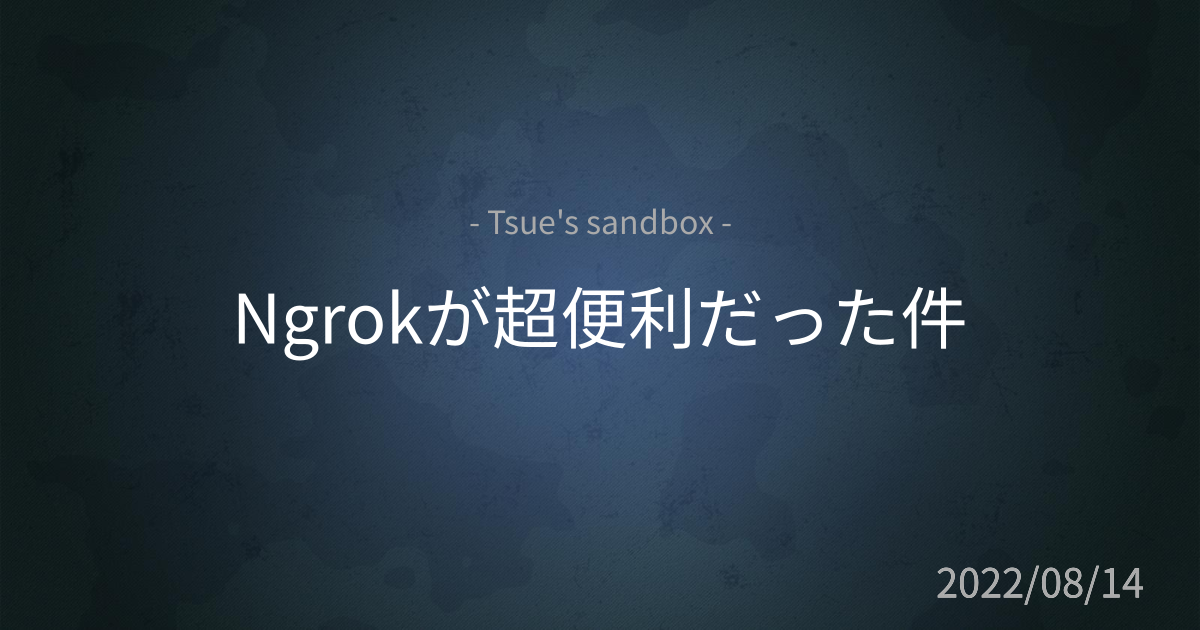
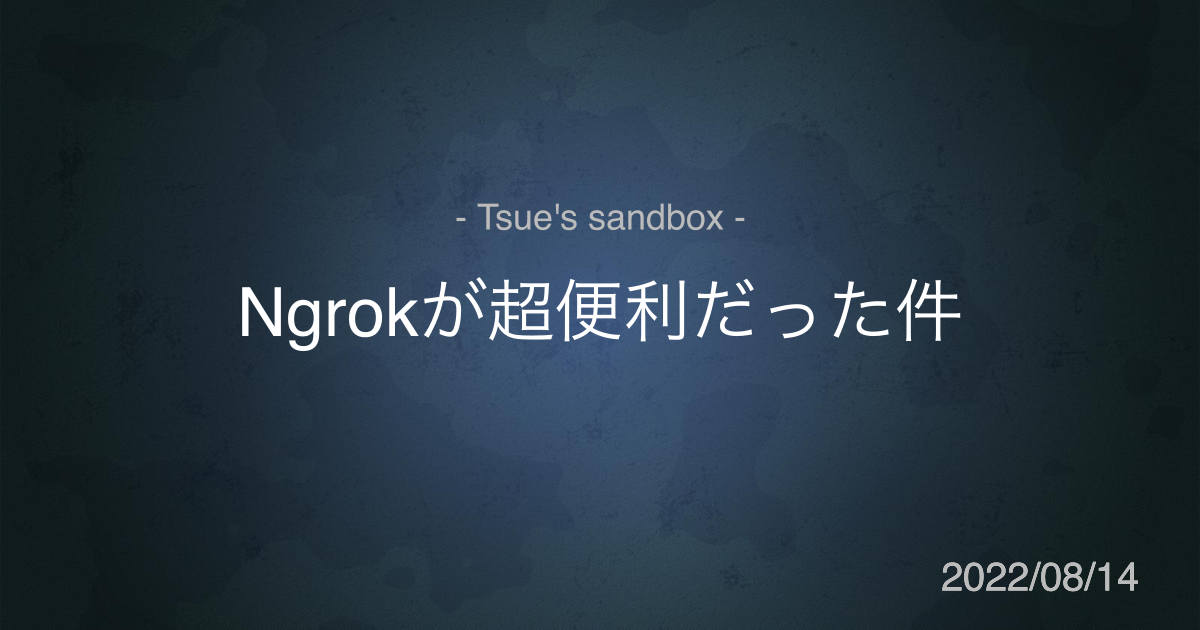
rss

Changed region(s): [[0.185, 0.4524, 0.8017, 0.573], [0.7708, 0.8746, 0.9558, 0.9651], [0.4008, 0.3016, 0.6167, 0.3921]]

diff --git a/src/lib/feed.ts b/src/lib/feed.ts
@@ -1,0 +1,68 @@
+import fs from 'fs';
+
+import { Feed } from 'feed';
+import matter from 'gray-matter';
+
+import { FrontMatterType } from 'src/type-def/postsType';
+
+function generatedRssFeed(): void {
+  const baseUrl = process.env.NEXT_PUBLIC_BASE_URL || '';
+  const date = new Date();
+  // author の情報を書き換える
+  const author = {
+    name: 'Tsue',
+    email: 'akihide.tsue@gmail.com',
+    link: 'https://tsue-sandbox.vercel.app/',
+  };
+
+  // デフォルトになる feed の情報
+  const feed = new Feed({
+    title: process.env.NEXT_PUBLIC_BASE_NAME || '',
+    description: process.env.NEXT_PUBLIC_BASE_DISC,
+    id: baseUrl,
+    link: baseUrl,
+    language: 'ja',
+    image: `${baseUrl}/favicon.png`, // image には OGP 画像でなくファビコンを指定
+    copyright: `All rights reserved ${date.getFullYear()}, ${author.name}`,
+    updated: date,
+    feedLinks: {
+      rss2: `${baseUrl}/rss/feed.xml`,
+      json: `${baseUrl}/rss/feed.json`,
+      atom: `${baseUrl}/rss/atom.xml`,
+    },
+    author: author,
+  });
+
+  const files = fs.readdirSync('src/posts');
+  const posts = files.map((fileName) => {
+    const slug = fileName.replace(/\.md$/, '');
+    const fileContent = fs.readFileSync(`src/posts/${fileName}`, 'utf-8');
+    const { data, content } = matter(fileContent);
+    return {
+      frontMatter: data as FrontMatterType,
+      slug,
+      content,
+    };
+  });
+
+  posts.forEach((post) => {
+    // post のプロパティ情報は使用しているオブジェクトの形式に合わせる
+    const url = `${baseUrl}/posts/${post.slug}`;
+    feed.addItem({
+      title: post.frontMatter.title,
+      description: post.frontMatter.description,
+      id: url,
+      link: url,
+      content: post.content,
+      date: new Date(post.frontMatter.date),
+    });
+  });
+
+  // フィード情報を public/rss 配下にディレクトリを作って保存
+  fs.mkdirSync('./public/rss', { recursive: true });
+  fs.writeFileSync('./public/rss/feed.xml', feed.rss2());
+  fs.writeFileSync('./public/rss/atom.xml', feed.atom1());
+  fs.writeFileSync('./public/rss/feed.json', feed.json1());
+}
+
+export default generatedRssFeed;

diff --git a/src/pages/api/posts/[slug].ts b/src/pages/api/posts/[slug].ts
@@ -1,6 +1,6 @@
 /* eslint-disable */
 // @ts-nocheck
-//ローカル用：http://localhost:3000/api/posts/dinamic-ogp
+//ローカル用：http://localhost:3000/api/posts/dynamic-ogp
 import { NextApiRequest, NextApiResponse } from 'next';
 import { createCanvas, registerFont, loadImage } from 'canvas';
 
@@ -33,12 +33,12 @@ const createOgp = async (req: NextApiRequest, res: NextApiResponse): Promise<voi
   context.textBaseline = 'middle';
   context.fillText(data.title, 600, 300);
 
-  context.fillStyle = '#aaa';
+  context.fillStyle = '#bbb';
   context.font = '40px NotoSans';
   context.fillText(data.date.replace(/-/g, '/'), 1040, 580);
 
-  context.font = '32px NotoSans';
-  context.fillText("- Tsue's sandbox -", 600, 220);
+  context.font = '36px NotoSans';
+  context.fillText("- Tsue's sandbox -", 600, 200);
 
   const buffer = canvas.toBuffer();
 

diff --git a/src/pages/index.tsx b/src/pages/index.tsx
@@ -8,6 +8,7 @@ import matter from 'gray-matter';
 
 import ArticleLayoutSelect from '@components/article_layout_select/ArticleLayoutSelect';
 import ArticleLink from '@components/article_link/ArticleLink';
+import generatedRssFeed from 'src/lib/feed';
 import { PostType } from 'src/type-def/postsType';
 
 import styles from '@styles/index.module.scss';
@@ -25,6 +26,8 @@ export const getStaticProps = () => {
   });
 
   const sortedPosts = posts.sort((postA, postB) => (new Date(postA.frontMatter.date as Date) > new Date(postB.frontMatter.date as Date) ? -1 : 1));
+
+  generatedRssFeed();
 
   return {
     props: {

diff --git a/src/components/common_head/CommonHead.tsx b/src/components/common_head/CommonHead.tsx
@@ -34,8 +34,8 @@ const CommonHead: FC = ({}) => {
       <meta property="twitter:description" content={metaDescription} />
 
       {process.env.NEXT_PUBLIC_APP_ENV !== 'production' && <meta name="robots" content="noindex" />}
-      <link rel="icon" href="public/images/icons/apple-touch-icon.png" />
-      <link rel="apple-touch-icon" sizes="180x180" href="public/images/icons/apple-touch-icon.png" />
+      <link rel="icon" href="/images/icons/apple-touch-icon.png" />
+      <link rel="apple-touch-icon" sizes="180x180" href="/images/icons/apple-touch-icon.png" />
     </Head>
   );
 };

diff --git a/src/utils/server/ogpUtils.ts b/src/utils/server/ogpUtils.ts
@@ -71,12 +71,12 @@ const createOgp = async (slug: string): Promise<void> => {
   context.font = '40px NotoSans';
   context.fillText(data.date.replace(/-/g, '/'), 1040, 580);
 
-  context.fillStyle = '#aaa';
+  context.fillStyle = '#bbb';
   context.font = '40px NotoSans';
   context.fillText(data.date.replace(/-/g, '/'), 1040, 580);
 
-  context.font = '32px NotoSans';
-  context.fillText("- Tsue's sandbox -", 600, 220);
+  context.font = '36px NotoSans';
+  context.fillText("- Tsue's sandbox -", 600, 200);
 
   context.font = 'bold 68px NotoSans';
   context.fillStyle = '#fff';

diff --git a/src/components/page_header/PageHeader.tsx b/src/components/page_header/PageHeader.tsx
@@ -2,6 +2,8 @@ import { FC } from 'react';
 
 import Link from 'next/link';
 
+import FeesIcon from 'public/images/icons/feed_icon.svg';
+
 import styles from './PageHeader.module.scss';
 
 const PageHeader: FC = ({}) => {
@@ -13,6 +15,10 @@ const PageHeader: FC = ({}) => {
             <h1 className={styles.logo}>{"津江's sandbox"}</h1>
           </a>
         </Link>
+
+        <div className={styles.icon_wrapper}>
+          <FeesIcon width={24} height={24} className={styles.icon} />
+        </div>
       </div>
     </div>
   );

diff --git a/src/pages/posts/[slug].tsx b/src/pages/posts/[slug].tsx
@@ -33,7 +33,7 @@ export const getStaticProps: ({
   const file = fs.readFileSync(`src/posts/${params.slug}.md`, 'utf-8');
   const { data, content } = matter(file);
 
-  //OGPローカル確認:http://localhost:3000/api/posts/dinamic-ogp
+  //OGPローカル確認:http://localhost:3000/api/posts/dynamic-ogp
   void createOgp(params.slug);
 
   //ブログカード生成

diff --git a/src/components/page_header/PageHeader.module.scss b/src/components/page_header/PageHeader.module.scss
@@ -14,6 +14,7 @@
 .header_inner {
   display: flex;
   align-items: center;
+  justify-content: space-between;
   width: 100%;
   max-width: 1000px;
   height: 40px;
@@ -28,4 +29,12 @@
 .logo {
   font-size: 2rem;
   font-weight: 900;
+}
+
+.icon_wrapper {
+  display: block;
+}
+
+.icon {
+  cursor: pointer;
 }

diff --git a/src/posts/blog-card.md b/src/posts/blog-card.md
@@ -114,9 +114,9 @@ https://github.com/Akihide-Tsue/tsue_sandbox/blob/main/src/components/blog_card/
 
 BlogCard に表示する meta 情報のスタイルについて、  
 2 行以上だと...で text を省略する css は下記の通りなのですが、  
-stylelint が自動で  `display: -webkit-box; → display: box;`  
-と書き換えており、解決に時間を取られました。  
-困る。
+stylelint が自動で `display: -webkit-box; → display: box;`  
+と書き換えており、悩みました。  
+`/* stylelint-disable-next-line */` にて解決。
 
 ```css:BlogCard.module.scss
 .meta_title {
